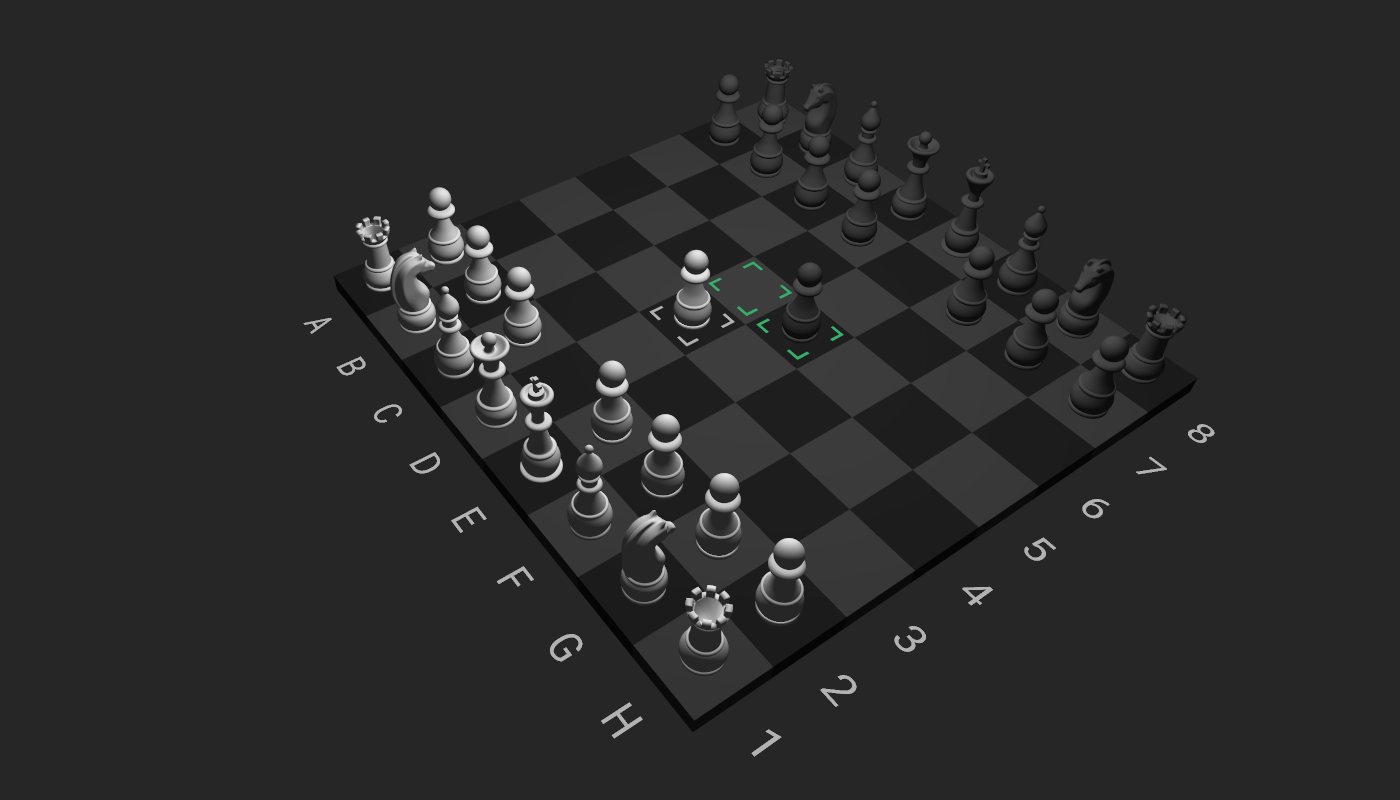
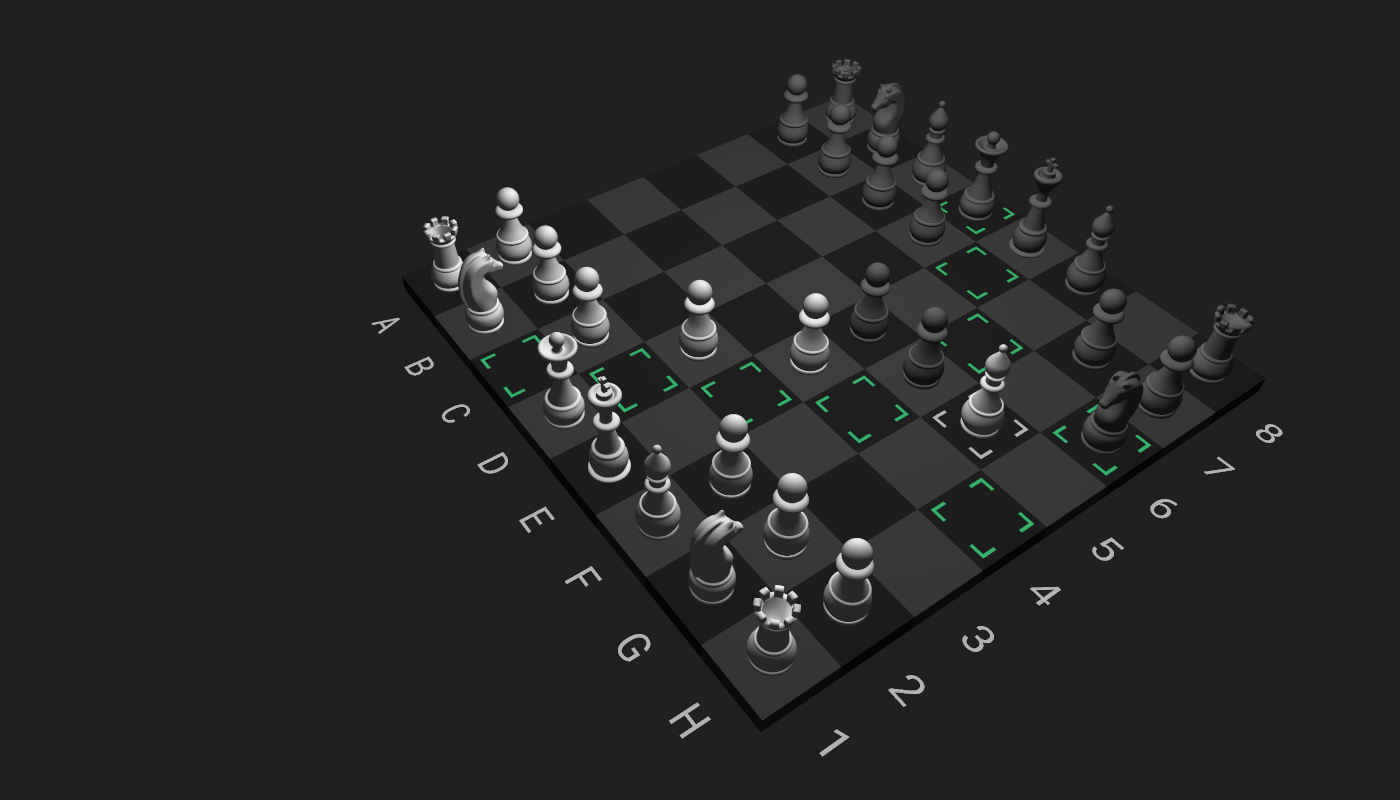
Improve color contrast

diff --git a/chess_game/source/options.h b/chess_game/source/options.h
@@ -28,8 +28,8 @@ struct Options
   float camera_velocity = 10.0f;
   float camera_sensitivity = 0.02f;
   glm::vec4 main_color = {1.0f, 1.0f, 1.0f, 1.0f};
-  glm::vec4 white_color = {0.75f, 0.75f, 0.75f, 1.0f};//{0.882f, 0.156f, 0.521f, 1.0f};
-  glm::vec4 black_color = {0.25f, 0.25f, 0.25f, 1.0f};//{0.0f, 0.576f, 0.768f, 1.0f};
+  glm::vec4 white_color = {0.775f, 0.775f, 0.775f, 1.0f};//{0.882f, 0.156f, 0.521f, 1.0f};
+  glm::vec4 black_color = {0.325f, 0.325f, 0.325f, 1.0f};//{0.0f, 0.576f, 0.768f, 1.0f};
 };
 
 

diff --git a/chess_game/source/main.cpp b/chess_game/source/main.cpp
@@ -148,7 +148,7 @@ int main([[maybe_unused]] int argc, [[maybe_unused]] char* argv[])
     glEnable(GL_BLEND);
     glEnable(GL_CULL_FACE);
     glBlendFunc(GL_SRC_ALPHA, GL_ONE_MINUS_SRC_ALPHA);
-    glClearColor(0.35f, 0.35f, 0.35f, 1.0f);
+    glClearColor(0.125f, 0.125f, 0.125f, 1.0f);
     glClear(GL_COLOR_BUFFER_BIT | GL_DEPTH_BUFFER_BIT);
 
     game.render();
